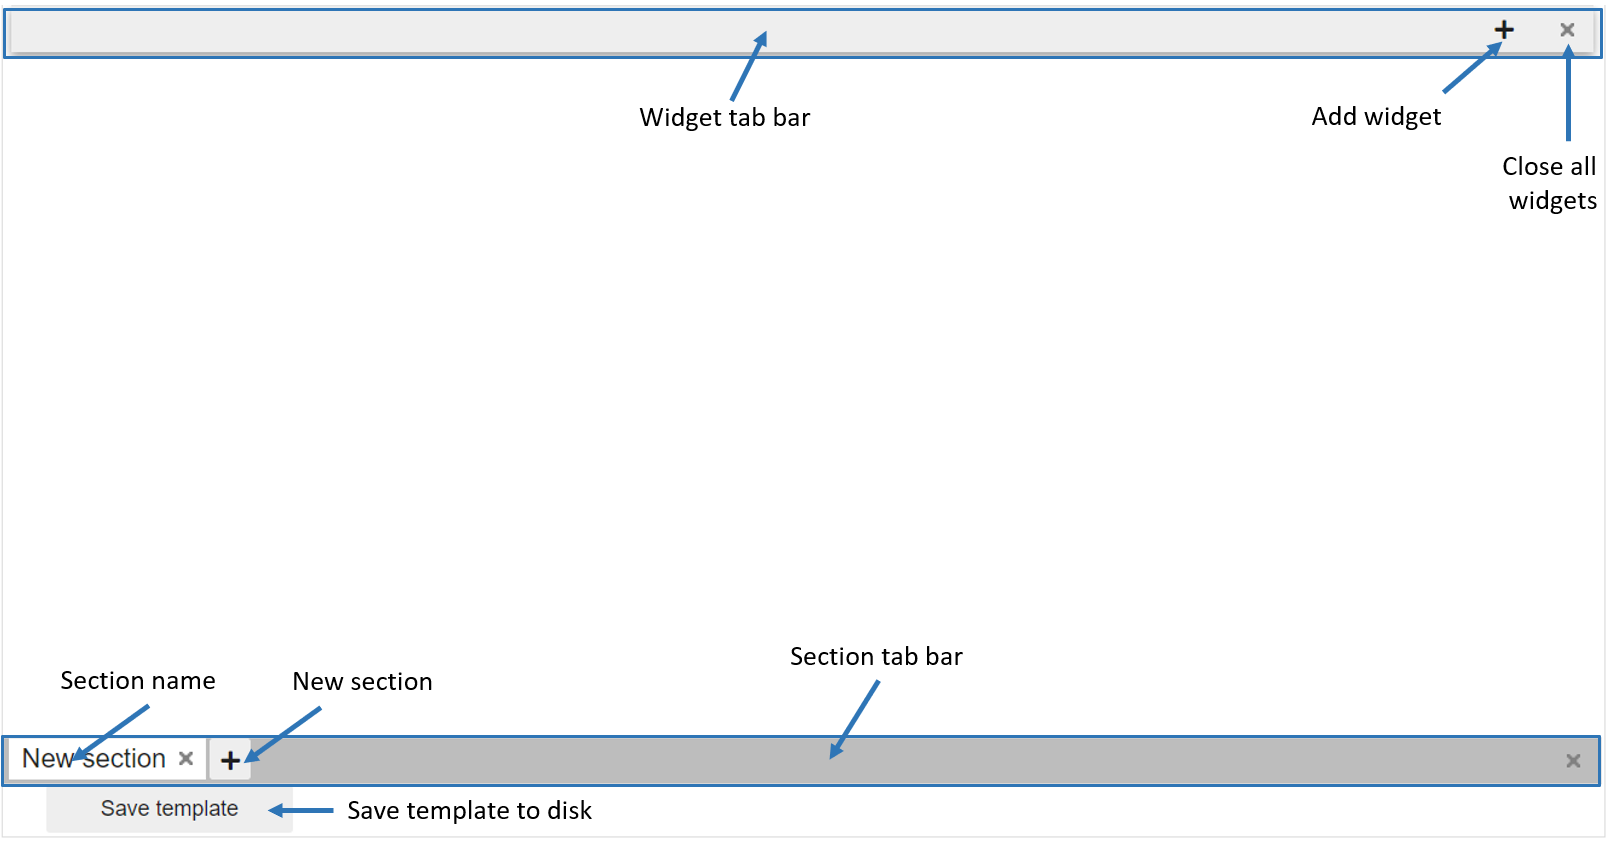
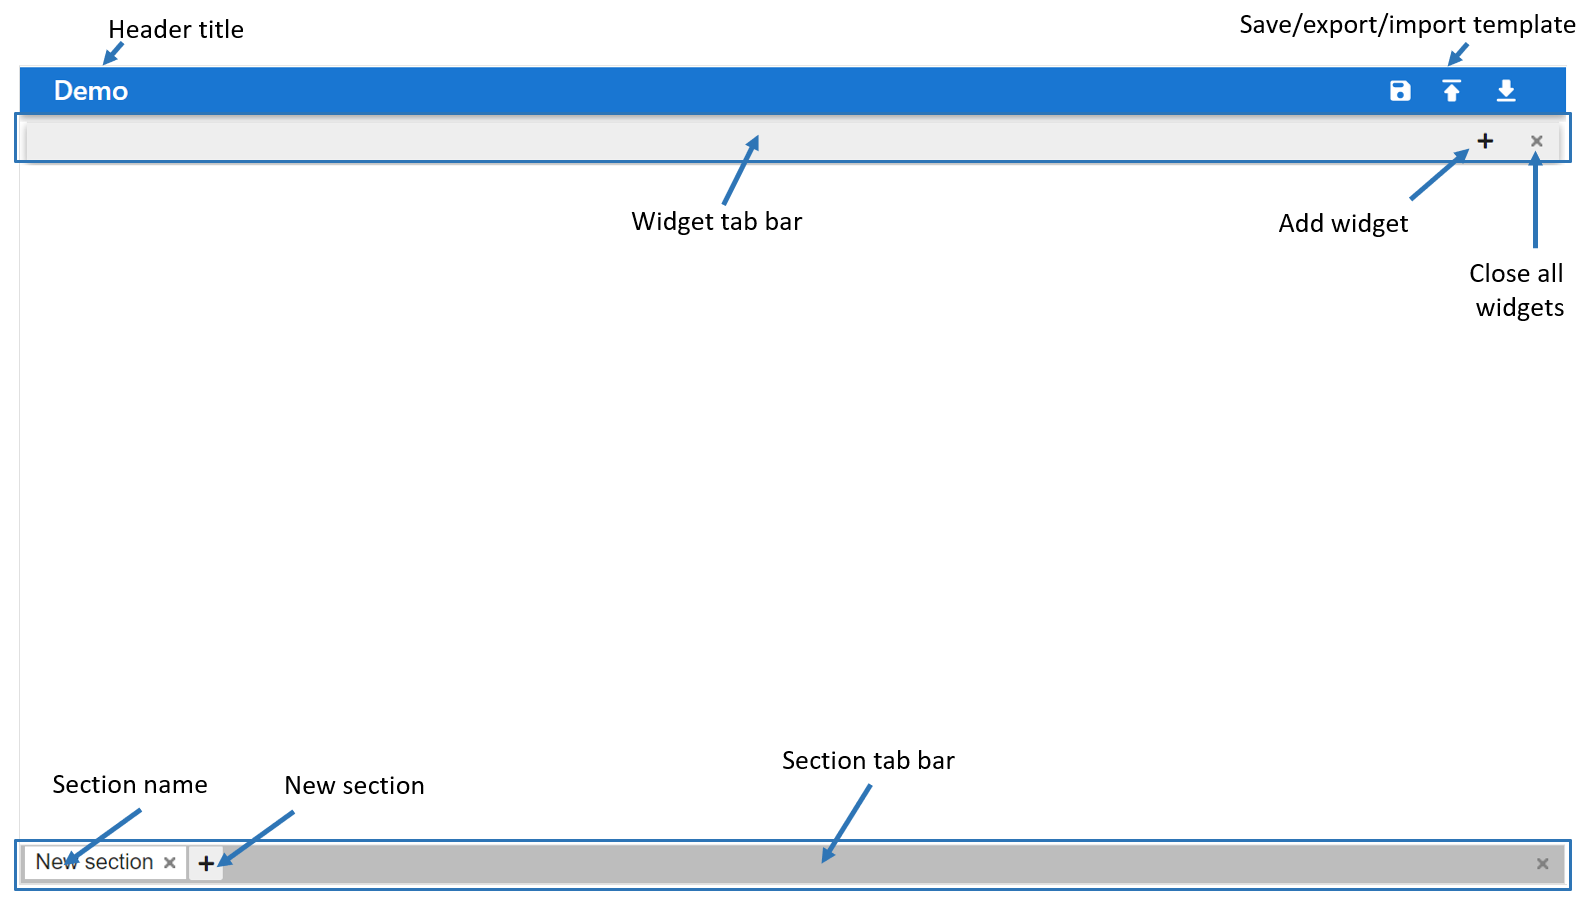
Update docs

diff --git a/docs/source/usage.rst b/docs/source/usage.rst
@@ -30,11 +30,13 @@ Users can pass some configurations to the constructor of *FlexLayout* to set the
     dashboard = FlexLayout(widgets,
         template = 'saved.json', 
         style = {'height': '50vh', 'borderTop': '5px'},
+        header= True,
         editable = False)
 
 - *template*: the path to save template file, this file can be generated from the dashboard interface.
 - *style*: CSS styles to be passed to the root element of the dashboard, it accepts any CSS rules but the keys need to be in *camelCase* format. 
-- *editable*: flag to enable or disable the editable mode. In non-editable mode, the toolbar with the *Save template* button is removed, tabs can not be removed, dragged, or renamed.
+- *header*: set to `True` to activate the default header, pass a dictionary to create a configurable header.
+- *editable*: flag to enable or disable the editable mode. In non-editable mode, the *Save template* button in the header is removed, tabs can not be removed, dragged, or renamed.
 
 --------------------------------------
 Create widgets from factory functions
@@ -53,7 +55,7 @@ In the case of using existing widgets in *FlexLayout* dashboard, users can creat
 
 .. image:: images/factory_widget.gif
 
-If the factory function needs parameters, *FlexLayout* will build an input form to get parameters  from the interface. Users can define annotations to have the label of the input form. 
+If the factory function needs parameters, *FlexLayout* will build an input form to get parameters from the interface. Users can define annotations to have the label of the input form. 
 
 .. note::
     *FlexLayout* will pass all parameters as string, users need to convert the inputs to their appropriate type in the factory function.
@@ -71,6 +73,34 @@ FlexLayout interface
 A typical interface is displayed in the figure below:
 
 .. image:: images/ipyflex-main.png
+
+----------------------------
+Header 
+----------------------------
+
+A header can be customized by setting the `header` parameter of the `FlexLayout` constructor with a dictionary of three keys.
+
+- *title*: Title of the header
+
+- *style*: CSS styles to be passed to the header HTML element, it accepts any CSS rules but the keys need to be in *camelCase* format.  
+
+- *buttons*: a list of buttons to be shown on the header, users can choose from `save`, `import`, `export`.
+
+    - Save button: Save the dashboard template to the same folder of the notebook, this feature requires a kernel to handler saving function.
+    - Export button: Export the dashboard template to disk, this feature does not require the kernel, so it can be used in a pure static page.
+    - Import button: Load the dashboard template from a *json* file, this feature does not require the kernel, so it can be used in a pure static page.
+
+.. code:: Python
+
+    header = dict(title='Demo header',
+                style={'background':'green',
+                        'color':'yellow',
+                        'fontStyle': 'italic'},
+                buttons=['import','export']
+                )
+    FlexLayout(header=header)
+
+.. image:: images/ipyflex-header.png
 
 ----------------------------
 Toolbar 
@@ -96,7 +126,7 @@ Section display window
 .. image:: images/ipyflex-widget-window.png
 
 - The widget menu can be opened by the *add widget* button, it contains the keys of the widget dictionary defined in the constructor of *FlexLayout*. The *Create new* item in the widget menu is always available, it will be detailed in the next section. 
-- Right-click on the section name will give users options to show or hide the widget tab bar of this section.
+- Right-click on any widget will give users options to show or hide the tab bar of this widget.
 - Users can customize the layout of a section by using drag and drop on each widget. The widgets can also be resized by dragging their borders.
 - Users can change the name of the widget tab by double-clicking on the tab name.
 
@@ -117,6 +147,14 @@ Even without widgets, users can still define a dashboard layout with *FlexLayout
 
 .. image:: images/ipyflex-create-new.gif
 
+Load and save template programmatically
+==========================================
+
+The template of a `FlexLayout` dashboard can be save or load from notebook by using `save_template` and `load_template` method.
+
+This feature is useful if you want to prepare the widgets and only create the dashboard when a user connected with some specific data about the template. 
+
 .. links
 
 .. _`ipywidgets`: https://github.com/jupyter-widgets/ipywidgets/
+
